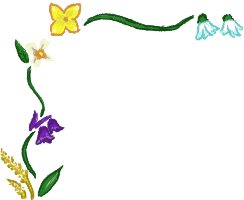
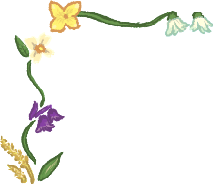
window resize with integer scaling

Changed region(s): [[0.0, 0.0, 1.0, 1.0]]

diff --git a/src/main.cpp b/src/main.cpp
@@ -443,22 +443,22 @@ void offscreenRender(VkCommandBuffer commandBuffer, int frameIndex,
 
   // viewport/scissor
 
-  VkViewport shadowViewport{
+  VkViewport viewport{
     .x = 0,
     .y = 0,
-    .width = static_cast<float>(windowSize.x),
-    .height = static_cast<float>(windowSize.y),
+    .width = 1280,
+    .height = 720,
     .minDepth = 0.0f,
     .maxDepth = 1.0f
   };
-  vkCmdSetViewport(commandBuffer, 0, 1, &shadowViewport);
-  VkRect2D shadowScissor{
+  vkCmdSetViewport(commandBuffer, 0, 1, &viewport);
+  VkRect2D scissor{
     .extent{
-      .width = (uint32_t)windowSize.x,
-      .height = (uint32_t)windowSize.y
+      .width = 1280,
+      .height = 720
     }
   };
-  vkCmdSetScissor(commandBuffer, 0, 1, &shadowScissor);
+  vkCmdSetScissor(commandBuffer, 0, 1, &scissor);
 
   // draw
 
@@ -663,8 +663,9 @@ int main()
   // window and surface
   //////////////////////////////////////////////////////////////////////
 
-  SDL_Window * window = SDL_CreateWindow("Vulkan", 1280, 720, SDL_WINDOW_VULKAN | SDL_WINDOW_RESIZABLE);
+  SDL_Window * window = SDL_CreateWindow("The Road to Alysen", 1280, 720, SDL_WINDOW_VULKAN | SDL_WINDOW_RESIZABLE);
   SDL_CHECK_NONNULL(window);
+  SDL_CHECK(SDL_SetWindowMinimumSize(window, 1280, 720));
   SDL_CHECK(SDL_Vulkan_CreateSurface(window, instance, nullptr, &surface));
   SDL_CHECK(SDL_GetWindowSize(window, &windowSize.x, &windowSize.y));
   VkSurfaceCapabilitiesKHR surfaceCapabilities{};
@@ -918,6 +919,7 @@ int main()
 
   renpy::interpreter interpreter_state;
   interpreter_state.reset();
+  interpreter_state.pc = 11;
 
   //////////////////////////////////////////////////////////////////////
   // renpy composite
@@ -1338,16 +1340,16 @@ int main()
     VkViewport viewport{
       .x = 0,
       .y = 0,
-      .width = static_cast<float>(windowSize.x),
-      .height = static_cast<float>(windowSize.y),
+      .width = static_cast<float>(surfaceCapabilities.currentExtent.width),
+      .height = static_cast<float>(surfaceCapabilities.currentExtent.height),
       .minDepth = 0.0f,
       .maxDepth = 1.0f
     };
     vkCmdSetViewport(commandBuffer, 0, 1, &viewport);
     VkRect2D scissor{
       .extent{
-        .width = (uint32_t)windowSize.x,
-        .height = (uint32_t)windowSize.y
+        .width = (uint32_t)surfaceCapabilities.currentExtent.width,
+        .height = (uint32_t)surfaceCapabilities.currentExtent.height
       }
     };
     vkCmdSetScissor(commandBuffer, 0, 1, &scissor);
@@ -1374,7 +1376,7 @@ int main()
       dissolve_lerp = clamp01(delta / interpreter_state.dissolveDuration);
       text_lerp = clamp01(delta / textDissolveDuration);
     }
-    composite_state.draw(commandBuffer, frameIndex, dissolve_lerp, text_lerp);
+    composite_state.draw(commandBuffer, frameIndex, dissolve_lerp, text_lerp, surfaceCapabilities.currentExtent.width, surfaceCapabilities.currentExtent.height);
 
     vkCmdEndRendering(commandBuffer);
 

diff --git a/src/renpy/composite/vulkan.cpp b/src/renpy/composite/vulkan.cpp
@@ -215,7 +215,7 @@ namespace renpy::composite {
   {
     VkPushConstantRange pushConstantRange{
       .stageFlags = VK_SHADER_STAGE_VERTEX_BIT,
-      .size = (sizeof (float)),
+      .size = (sizeof (float)) * 4,
     };
 
     VkPipelineLayoutCreateInfo pipelineLayoutCreateInfo{
@@ -387,12 +387,14 @@ namespace renpy::composite {
   void vulkan::draw(VkCommandBuffer commandBuffer,
                     uint32_t frameIndex,
                     float dissolveLerp,
-                    float textLerp)
+                    float textLerp,
+                    float framebufferWidth,
+                    float framebufferHeight)
   {
     vkCmdBindPipeline(commandBuffer, VK_PIPELINE_BIND_POINT_GRAPHICS, pipeline);
 
-    float lerp[2] = { dissolveLerp, textLerp };
-    vkCmdPushConstants(commandBuffer, pipelineLayout, VK_SHADER_STAGE_VERTEX_BIT, 0, (sizeof (float)) * 2, lerp);
+    float constants[4] = { dissolveLerp, textLerp, framebufferWidth, framebufferHeight };
+    vkCmdPushConstants(commandBuffer, pipelineLayout, VK_SHADER_STAGE_VERTEX_BIT, 0, (sizeof (float)) * 4, constants);
 
     VkDescriptorSet descriptorSets[1] = {
       descriptorSet0,

diff --git a/src/font/outline.cpp b/src/font/outline.cpp
@@ -709,7 +709,7 @@ namespace font::outline {
       if (state.say.stringIndex != -1u) {
         char const * const string = renpy::script::strings[state.say.stringIndex];
         uint32_t x = textboxLeft << 6;
-        uint32_t y = 590 << 6;
+        uint32_t y = 600 << 6;
         centered(frameIndex, string,
                  x, y,
                  textboxLeft, textboxWidth,
@@ -720,11 +720,11 @@ namespace font::outline {
       if (state.say.characterIndex != -1u) {
         const renpy::language::character & character = renpy::script::characters[state.say.characterIndex];
         char const * const string = character.characterName;
-        uint32_t x = 580 << 6;
-        uint32_t y = 550 << 6;
+        uint32_t x = 550 << 6;
+        uint32_t y = 565 << 6;
         centered(frameIndex, string,
                  x, y,
-                 580, 118,
+                 550, 180,
                  outputIndex,
                  character.color);
       }

diff --git a/src/renpy/vulkan.cpp b/src/renpy/vulkan.cpp
@@ -545,20 +545,20 @@ namespace renpy {
       .imageIndex = -2, // white gradient 1
     };
     instanceMappedData[maximumImageCount * frameIndex + outputIndex++] = {
-      .size = {244, 200},
-      .topLeft = {336, 720 - 200},
+      .size = {216, 184},
+      .topLeft = {336, 720 - 184},
       .imageIndex = 0, // flower
     };
     instanceMappedData[maximumImageCount * frameIndex + outputIndex++] = {
-      .size = {-244, 200},
-      .topLeft = {1280 - (336 + 244), 720 - 200},
+      .size = {-216, 184},
+      .topLeft = {1280 - (336 + 216), 720 - 184},
       .imageIndex = 0, // flower
     };
 
     if (state.say.characterIndex != -1u) {
       instanceMappedData[maximumImageCount * frameIndex + outputIndex++] = {
-        .size = {148, 30},
-        .topLeft = {560, 528},
+        .size = {180, 30},
+        .topLeft = {550, 542},
         .color = 0x80ffffffu,
         .imageIndex = -4, // white gradient 2
       };

diff --git a/src/renpy/script.cpp b/src/renpy/script.cpp
@@ -185,7 +185,7 @@ const int strings_length = (sizeof (strings)) / (sizeof (strings[0]));
 const language::character characters[] = {
   { .characterName = "Alice", .color = 0x00765e }, // 0
   { .characterName = "Cat", .color = 0x590093 }, // 1
-  { .characterName = "Eily", .color = 0x0b6092 }, // 2
+  { .characterName = "Mouse Girls", .color = 0x0b6092 }, // 2
   { .characterName = "Mouse Girls", .color = 0x000000 }, // 3
   { .characterName = "Narrator", .color = 0x000000 }, // 4
   { .characterName = "Leona", .color = 0x590093 }, // 5

diff --git a/include/renpy/composite/vulkan.h b/include/renpy/composite/vulkan.h
@@ -47,6 +47,8 @@ namespace renpy::composite {
     void draw(VkCommandBuffer commandBuffer,
               uint32_t frameIndex,
               float dissolveLerp,
-              float textLerp);
+              float textLerp,
+              float framebufferWidth,
+              float framebufferHeight);
   };
 }
